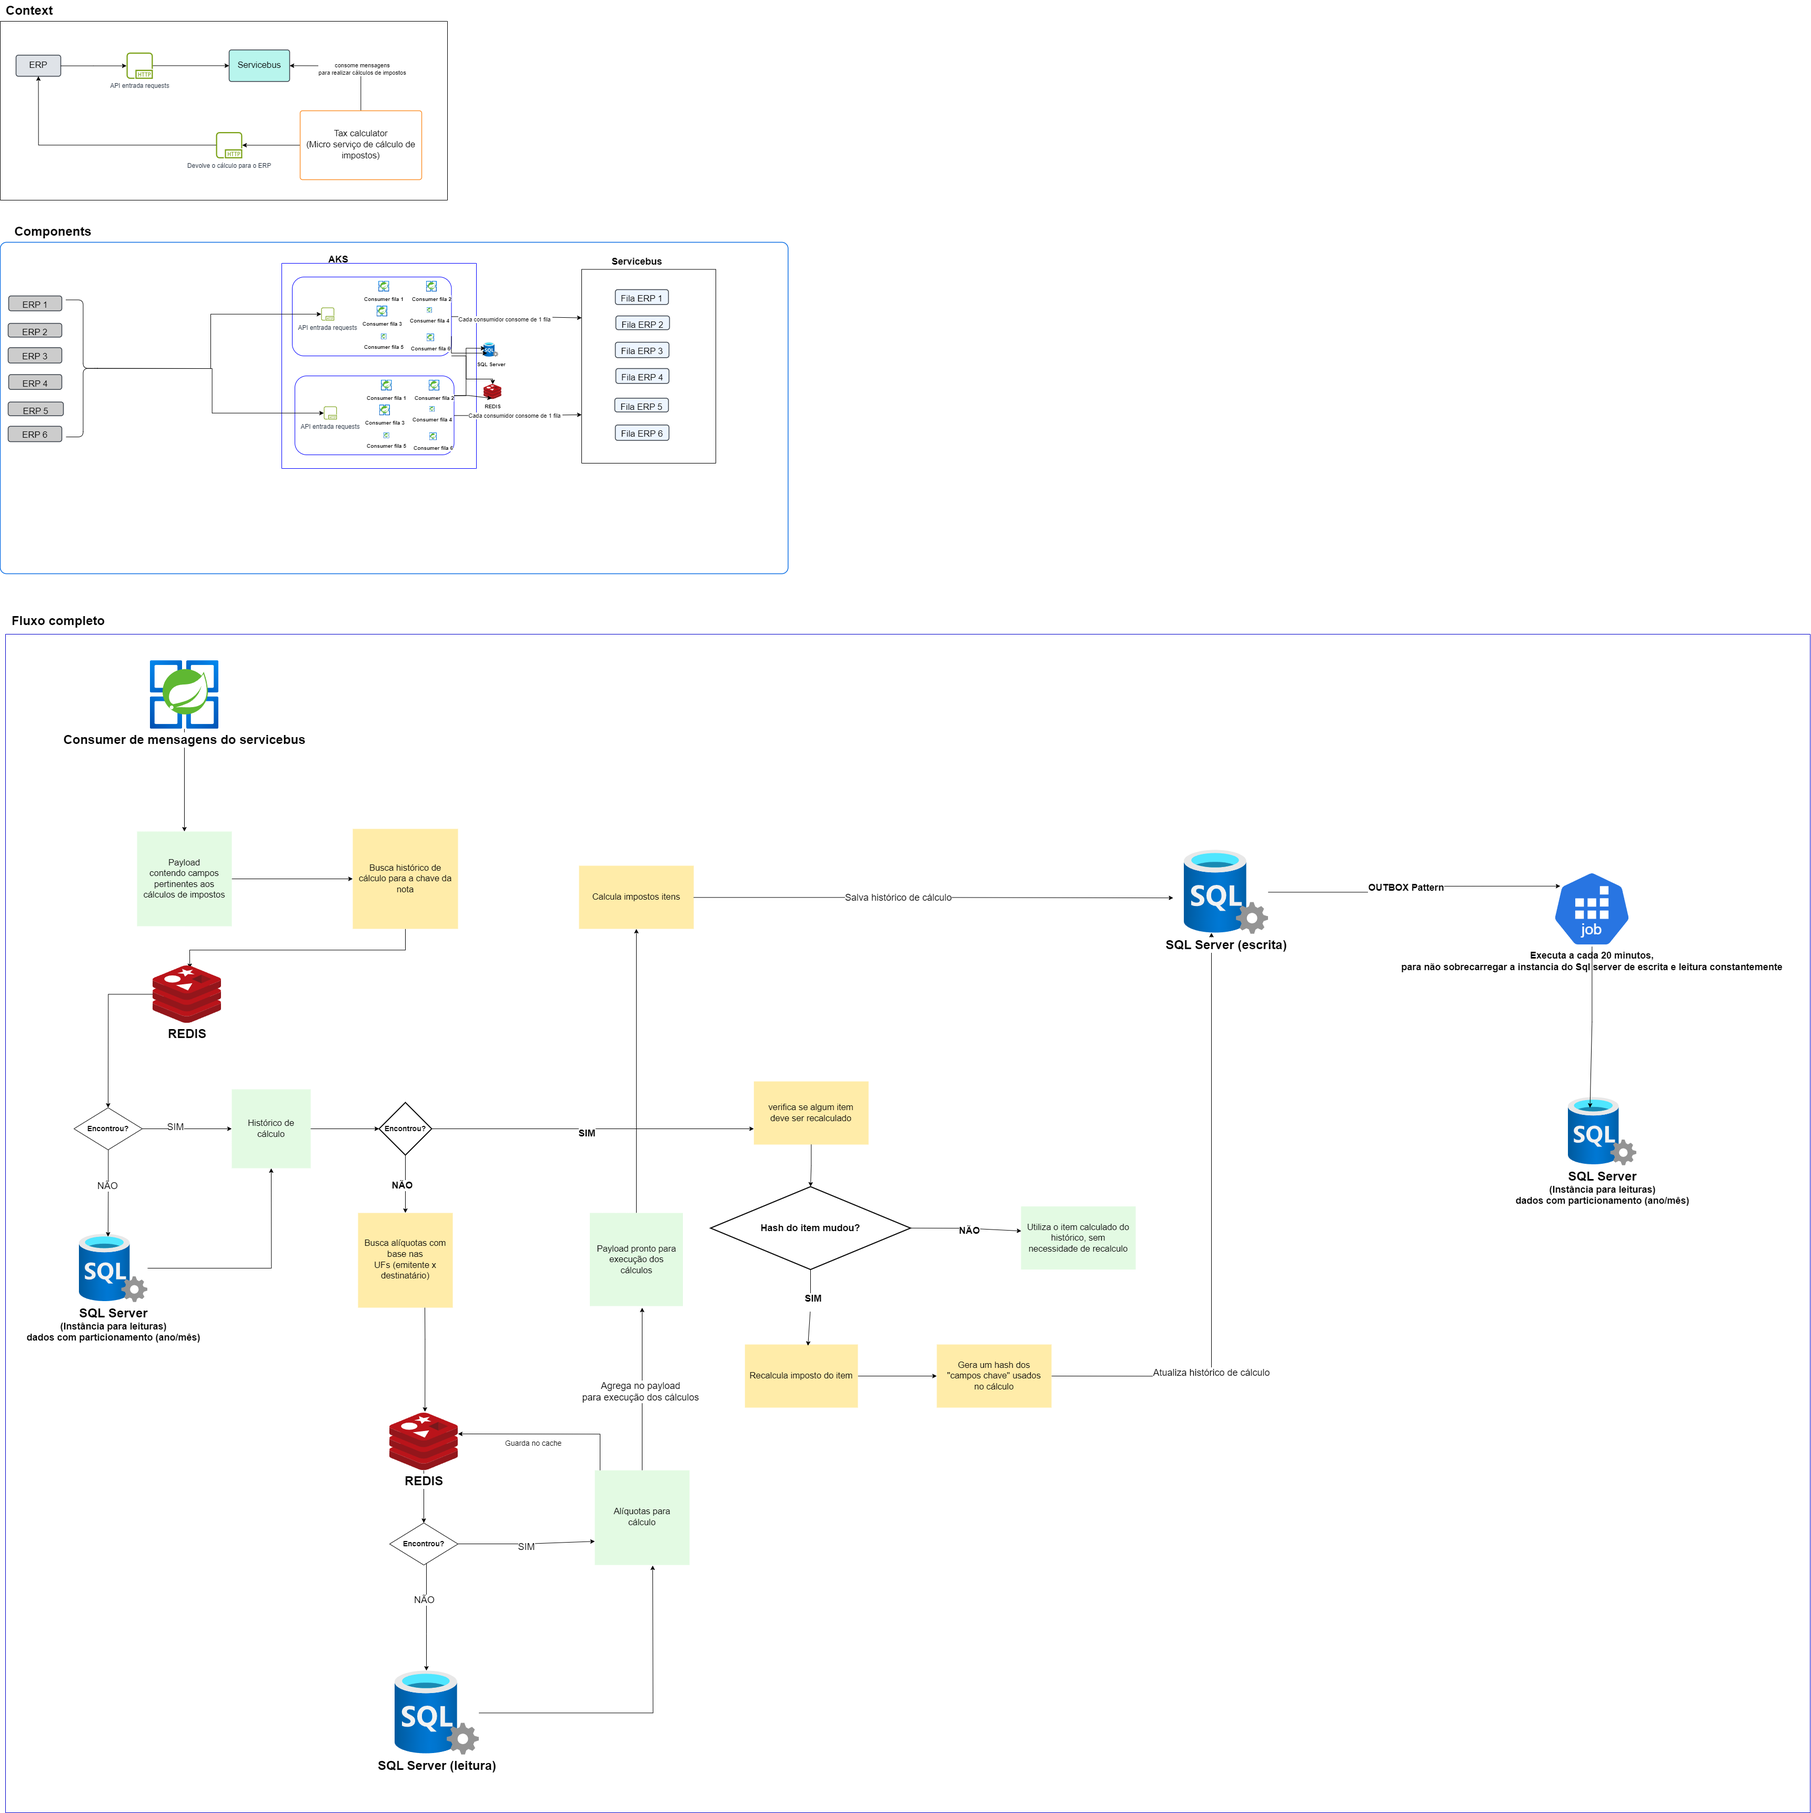
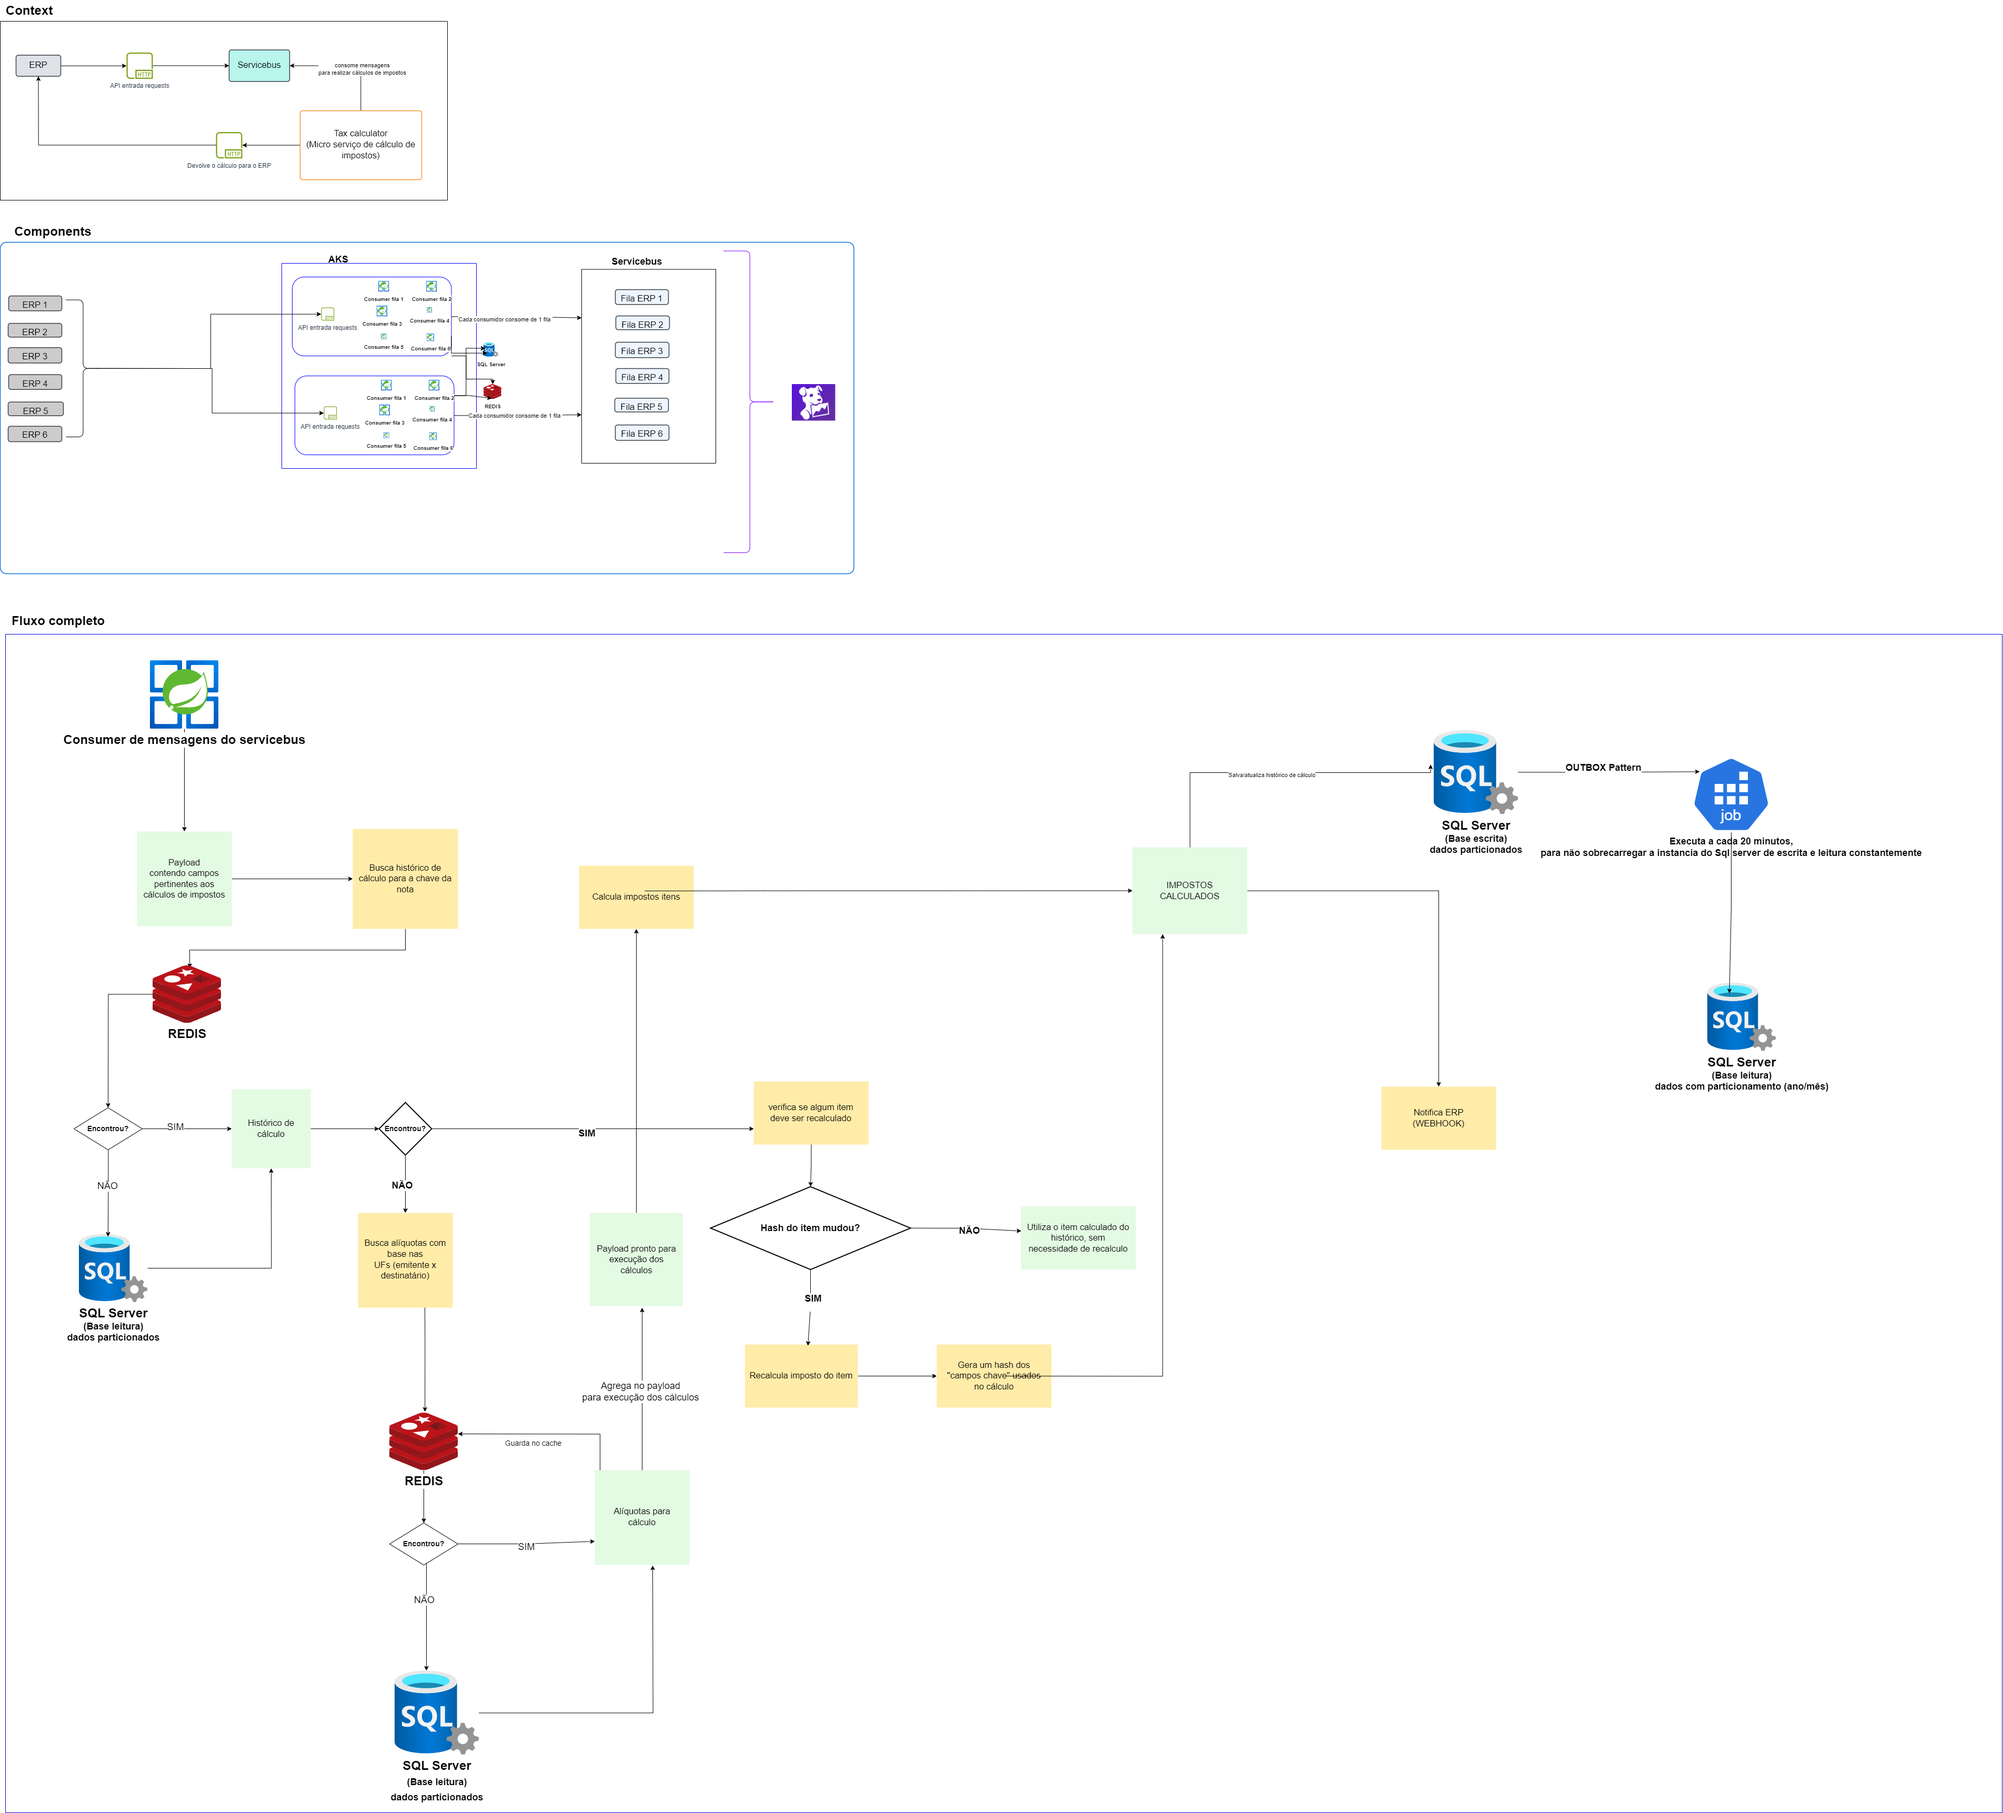
Adicionado monitoramento

diff --git a/TechnicalProposal.md b/TechnicalProposal.md
@@ -3,11 +3,12 @@
 1. **Exemplo de cálculo 🧮**
 2. **Contrato de payload 📝**
 3. **Cadastros/tabelas necessárias 📚**
-4. **RPS ⚡**
-5. **Consumo de banda 🌐**
+4. **RPS/Infra ⚡**
+5. **Consumo de banda/Infra 🌐**
 6. **Armazenamento 📦**
-7. **Infraestrutura necessária 🖥**
-8. **Diagramas 📊**
+7. **Monitoramento 🔍**
+8. **Infraestrutura necessária 🖥**
+9. **Diagramas 📊**
 
 ---
 
@@ -279,6 +280,26 @@
 
 
 -----
+
+# 🔍 Monitoramento
+**Datadog**
+- Podemos utilizar recursos do datadog, para termos rastreabilidade de erros, visualização de métricas e garantir que as configurações de infraestrutura estarão atendendo as necessidades do produto)
+    - Logs
+        - Monitorar logs de erro durante o cálculo, identificar cenários que só ocorram em produção, identificar causa raiz de um erro. 
+    - Traces
+        - Garantir baixa latência, identificando gargalos em partes especificas da aplicação
+        - Identificação de erros mais complexos, vendo o rastreamento da requisição inicial até o erro
+    - Métricas
+        - Centralizar e facilitar a visualização da infraestrutura e se está atendendo aos critérios que o produto precisa, exemplos de métricas:
+            - Uso de cpu
+            - Alocação de threads 
+    - Alertas
+        - Monitoramento de falhas critícas, alertando time de suporte ou aplicação, para rápida identificação e correção do problema.
+
+
+-------
+
+
 
 # 🖥 Infraestrutura necessária
 
